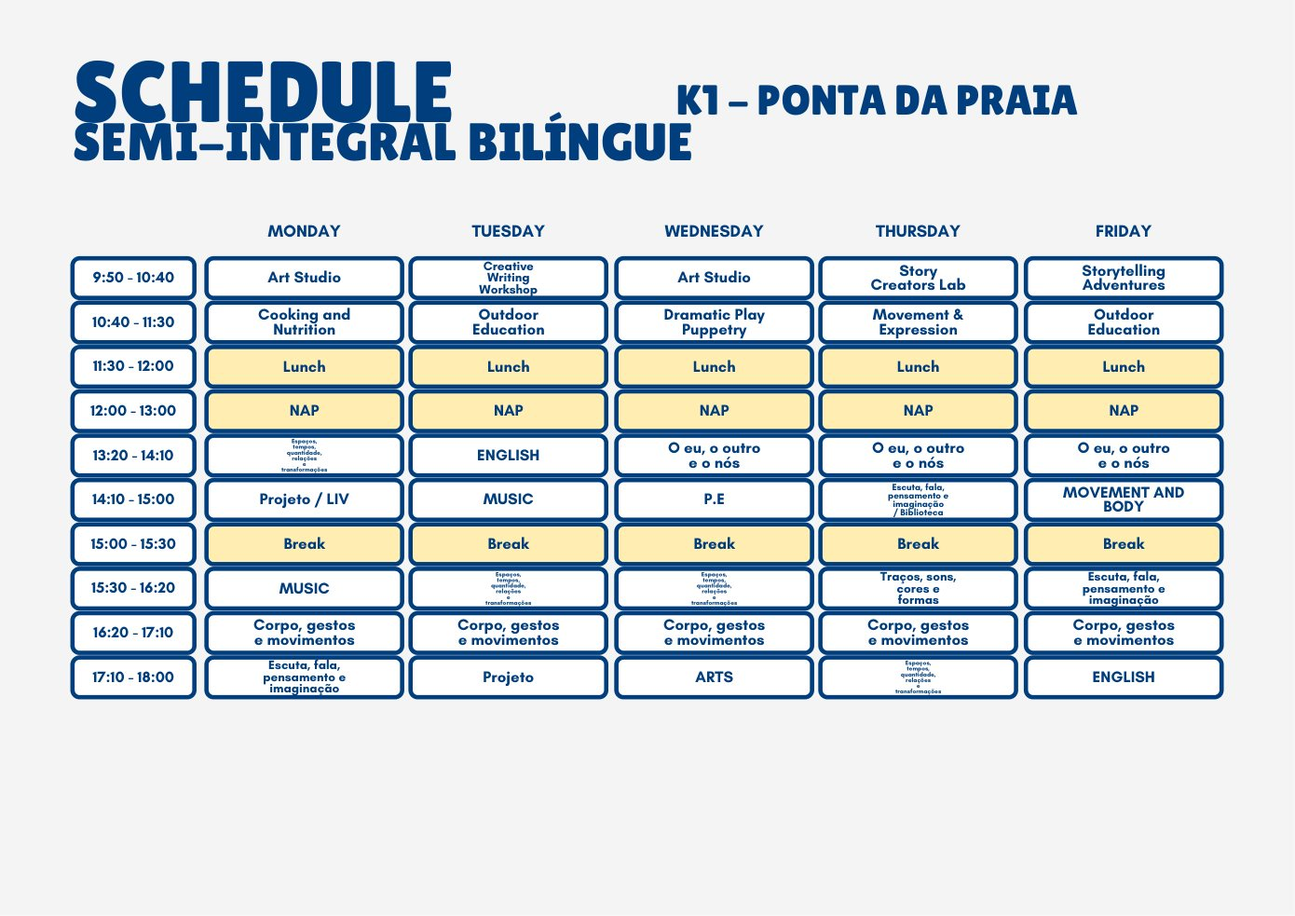
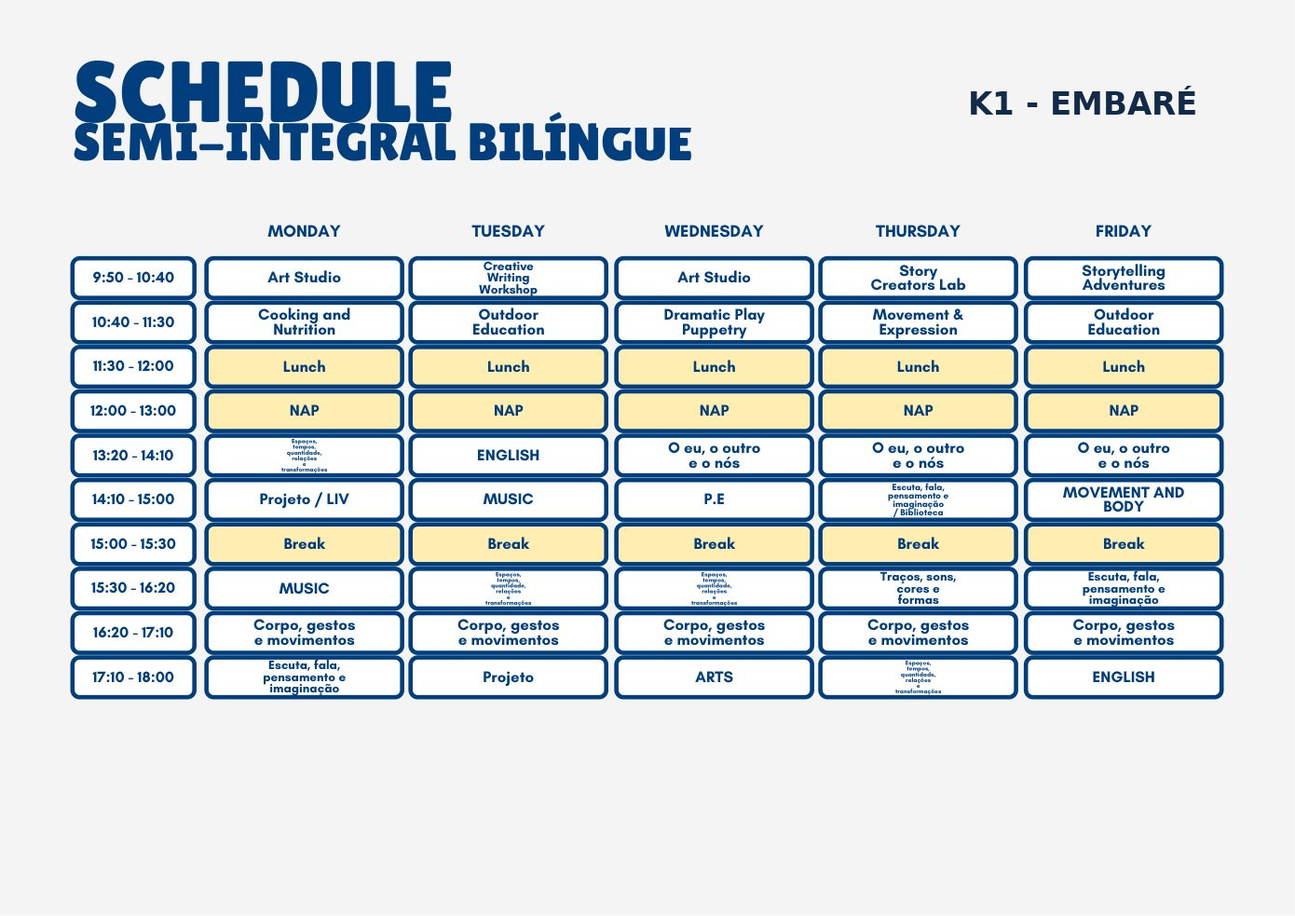
Corrige miniaturas Embaré com nome da escola e linha das 7h no Y6/Y7

Changed region(s): [[0.464, 0.0916, 0.9281, 0.1526]]

diff --git a/embare-grades.html b/embare-grades.html
@@ -2,4 +2,4 @@
 
 <html lang="pt-BR"><head><meta charset="utf-8"/><meta content="width=device-width, initial-scale=1" name="viewport"/><meta content="noindex,nofollow" name="robots"/><title>Grades Horárias Embaré · Portal</title><!-- versão 20260624-embare-grades-atualizadas-v2 --><link href="https://fonts.googleapis.com" rel="preconnect"/><link crossorigin="" href="https://fonts.gstatic.com" rel="preconnect"/><link href="https://fonts.googleapis.com/css2?family=Lexend:wght@300;400;500;600;700;800&amp;display=swap" rel="stylesheet"/><style>
 :root{--navy:#003366;--blue:#2ea3f2;--orange:#ff6900;--green:#0a5629;--ink:#26343b;--muted:#64717a;--line:#dfe9ef;--bg:#f4f7f8;--shadow:0 18px 50px rgba(0,51,102,.13)}*{box-sizing:border-box}html{scroll-behavior:smooth}body{margin:0;font-family:Lexend,Arial,sans-serif;background:var(--bg);color:var(--ink);line-height:1.55}a{color:var(--blue)}.wrap{max-width:1180px;margin:auto;padding:0 22px}.top{position:sticky;top:0;z-index:20;background:rgba(255,255,255,.92);backdrop-filter:blur(14px);border-bottom:1px solid var(--line)}.top .wrap{display:flex;justify-content:space-between;gap:12px;align-items:center;padding-top:11px;padding-bottom:11px}.brand{font-weight:900;color:var(--navy)}.actions{display:flex;gap:8px;flex-wrap:wrap}.btn{text-decoration:none;border:1px solid var(--line);background:white;color:var(--navy);border-radius:999px;padding:9px 13px;font-weight:900}.btn.primary{background:var(--orange);border-color:var(--orange);color:#fff}.hero{background:radial-gradient(circle at 74% 9%,rgba(64,174,103,.28),transparent 28%),linear-gradient(135deg,var(--navy),var(--green));color:white;padding:38px 0 24px}.eyebrow{font-size:12px;letter-spacing:.12em;text-transform:uppercase;font-weight:900;opacity:.82}h1{font-size:clamp(30px,4vw,48px);line-height:1.04;margin:8px 0}.hero p{max-width:720px;color:#edf7ff;font-size:15px}main{padding:18px 0 54px}.panel{background:white;border:1px solid var(--line);border-radius:28px;padding:24px;box-shadow:var(--shadow);margin-bottom:24px}.panel h2{color:var(--navy);font-size:30px;margin:4px 0 6px}.panel p{color:var(--muted);margin:0}.indexGrid{display:grid;grid-template-columns:repeat(auto-fit,minmax(260px,1fr));gap:14px;margin-top:18px}.indexCard{position:relative;overflow:hidden;display:block;text-decoration:none;background:#fff;border:1px solid var(--line);border-radius:24px;padding:20px;min-height:178px;box-shadow:0 10px 28px rgba(0,51,102,.08);transition:.18s ease transform,.18s ease box-shadow,.18s ease border-color}.indexCard:after{content:'';position:absolute;right:-34px;top:-34px;width:104px;height:104px;border-radius:999px;background:linear-gradient(135deg,rgba(46,163,242,.12),rgba(64,174,103,.14))}.indexCard:hover{transform:translateY(-3px);box-shadow:0 16px 34px rgba(0,51,102,.13);border-color:color-mix(in srgb,var(--accent) 40%,var(--line))}.cardEmoji{position:relative;z-index:1;width:52px;height:52px;display:flex;align-items:center;justify-content:center;border-radius:17px;background:linear-gradient(135deg,#eef8f1,#eaf4ff);font-size:28px;margin-bottom:14px;box-shadow:0 8px 20px rgba(0,51,102,.08)}.indexCard strong{position:relative;z-index:1;display:block;color:var(--navy);font-size:20px;margin-bottom:8px}.indexCard span:not(.cardEmoji){position:relative;z-index:1;display:block;color:var(--muted);font-size:14px}.indexCard em{position:relative;z-index:1;display:inline-flex;margin-top:12px;color:var(--accent);font-style:normal;font-weight:900;font-size:12px;text-transform:uppercase;letter-spacing:.06em}.segment{margin:34px 0 48px;scroll-margin-top:86px}.segmentHead{display:flex;gap:16px;align-items:flex-start;background:#fff;border:1px solid var(--line);border-radius:28px;padding:22px;box-shadow:var(--shadow);margin-bottom:18px}.segIcon{width:56px;height:56px;display:flex;align-items:center;justify-content:center;border-radius:18px;background:linear-gradient(135deg,#eef8f1,#eaf4ff);font-size:30px;box-shadow:0 8px 20px rgba(0,51,102,.08)}.segmentHead h2{margin:4px 0;color:var(--navy);font-size:28px}.segmentHead p{margin:0;color:var(--muted)}.segmentHead a{margin-left:auto;white-space:nowrap;text-decoration:none;font-weight:900;border:1px solid var(--line);border-radius:999px;padding:8px 12px;background:#f8fbff}.gradeSubhead{margin:18px 0 12px;color:var(--navy);font-size:20px;line-height:1.25}.gradeGrid{display:grid;grid-template-columns:repeat(auto-fit,minmax(330px,1fr));gap:18px}.gradeCard{background:#fff;border:1px solid var(--line);border-radius:24px;overflow:hidden;box-shadow:0 10px 28px rgba(0,51,102,.08);border-top:7px solid var(--accent)}.gradeInfo{padding:17px 18px 14px}.gradeInfo span{color:var(--accent);font-weight:900;text-transform:uppercase;font-size:12px;letter-spacing:.08em}.gradeInfo h3{margin:6px 0 4px;color:var(--navy);font-size:16px;line-height:1.25}.gradeInfo p{margin:0;color:var(--muted);font-size:13px}.gradeImageLink{display:block;background:#eef3f6;padding:10px;border-top:1px solid var(--line)}.gradeImageLink img{display:block;width:100%;height:auto;border-radius:14px;border:1px solid #d8e2e8;background:white}@media(max-width:760px){.top .wrap,.segmentHead{display:block}.actions{margin-top:8px}.hero{padding:34px 0 24px}.panel,.segmentHead{border-radius:22px;padding:18px}.segmentHead a{display:inline-flex;margin:14px 0 0}.gradeGrid{grid-template-columns:1fr}.indexGrid{grid-template-columns:1fr}}
-.gradeInfo{display:none!important}.gradeCard{border-top:0!important;padding:0!important;background:#fff!important}.gradeImageLink{border-top:0!important;padding:8px!important;background:#fff!important}.gradeImageLink img{border-radius:18px!important}.segment{margin:26px 0 34px!important}.segmentHead{margin-bottom:12px!important;padding:18px!important}.panel{margin-bottom:18px!important}.indexCard{min-height:132px!important;padding:16px!important}.cardEmoji{width:44px!important;height:44px!important;margin-bottom:10px!important}.indexCard strong{font-size:18px!important}.indexCard span:not(.cardEmoji){font-size:13px!important}.top{display:none!important}.hero{display:none!important}.topicBar{top:0!important}.segment{scroll-margin-top:24px!important}.contentCard{scroll-margin-top:24px!important}main{padding-top:18px!important}</style></head><body><header class="top"><div class="wrap"><div class="brand">GSP · Projeto Bilíngue 2027</div><div class="actions"><a class="btn" href="index.html#embare">Voltar ao portal</a></div></div></header><section class="hero"><div class="wrap"><span class="eyebrow">Portal Embaré</span><h1>Grades horárias</h1><p>Consulte por segmento. Clique para ampliar.</p></div></section><main class="wrap"><section class="panel" id="indice"><span class="eyebrow">Índice rápido</span><h2>Segmentos</h2><p>Escolha uma seção para consultar.</p><div class="indexGrid"><a class="indexCard" href="#infantil" style="--accent:#003366"><span class="cardEmoji">🌱</span><strong>Educação Infantil</strong><span>12 página(s)</span><em>Ver</em></a><a class="indexCard" href="#fund1" style="--accent:#2ea3f2"><span class="cardEmoji">📘</span><strong>Fundamental I — Year 1 ao Year 5 / 1º ao 5º ano</strong><span>3 página(s)</span><em>Ver</em></a><a class="indexCard" href="#fund2" style="--accent:#0a5629"><span class="cardEmoji">🧭</span><strong>Fundamental II — Year 6 ao Year 9 / 6º ao 9º ano</strong><span>6 página(s)</span><em>Ver</em></a></div></section><section class="segment" id="infantil"><div class="segmentHead"><div class="segIcon">🌱</div><div><span class="eyebrow">Embaré</span><h2>Educação Infantil</h2><p>Miniaturas das páginas da grade da Educação Infantil.</p></div><a href="#indice">Voltar ao índice</a></div><div class="gradeGrid"><article class="gradeCard" style="--accent:#003366"><div class="gradeInfo"><span>Página 1 · Grades horárias</span><h3>INTEGRAL BILÍNGUE</h3><p>Clique para ampliar.</p></div><a class="gradeImageLink" href="assets/embare-grades/embare-grade-p01.jpg?v=20260624-embare-grades-atualizadas-v2" rel="noopener" target="_blank"><img alt="Grade Embaré — INTEGRAL BILÍNGUE" loading="eager" src="assets/embare-grades/embare-grade-p01.jpg?v=20260827-ponta-replica-infantil-f1-f2-p01"/></a></article><article class="gradeCard" style="--accent:#2ea3f2"><div class="gradeInfo"><span>Página 2 · Grades horárias</span><h3>SEMI-INTEGRAL BILÍNGUE</h3><p>Clique para ampliar.</p></div><a class="gradeImageLink" href="assets/embare-grades/embare-grade-p02.jpg?v=20260624-embare-grades-atualizadas-v2" rel="noopener" target="_blank"><img alt="Grade Embaré — SEMI-INTEGRAL BILÍNGUE" loading="eager" src="assets/embare-grades/embare-grade-p02.jpg?v=20260827-ponta-replica-infantil-f1-f2-p02"/></a></article><article class="gradeCard" style="--accent:#0a5629"><div class="gradeInfo"><span>Página 3 · Grades horárias</span><h3>REGULAR BILÍNGUE</h3><p>Clique para ampliar.</p></div><a class="gradeImageLink" href="assets/embare-grades/embare-grade-p03.jpg?v=20260624-embare-grades-atualizadas-v2" rel="noopener" target="_blank"><img alt="Grade Embaré — REGULAR BILÍNGUE" loading="eager" src="assets/embare-grades/embare-grade-p03.jpg?v=20260827-ponta-replica-infantil-f1-f2-p03"/></a></article><article class="gradeCard" style="--accent:#40ae67"><div class="gradeInfo"><span>Página 4 · Grades horárias</span><h3>INTEGRAL BILÍNGUE</h3><p>Clique para ampliar.</p></div><a class="gradeImageLink" href="assets/embare-grades/embare-grade-p04.jpg?v=20260624-embare-grades-atualizadas-v2" rel="noopener" target="_blank"><img alt="Grade Embaré — INTEGRAL BILÍNGUE" loading="eager" src="assets/embare-grades/embare-grade-p04.jpg?v=20260827-ponta-replica-infantil-f1-f2-p04"/></a></article><article class="gradeCard" style="--accent:#ff6900"><div class="gradeInfo"><span>Página 5 · Grades horárias</span><h3>SEMI-INTEGRAL BILÍNGUE</h3><p>Clique para ampliar.</p></div><a class="gradeImageLink" href="assets/embare-grades/embare-grade-p05.jpg?v=20260624-embare-grades-atualizadas-v2" rel="noopener" target="_blank"><img alt="Grade Embaré — SEMI-INTEGRAL BILÍNGUE" loading="eager" src="assets/embare-grades/embare-grade-p05.jpg?v=20260827-ponta-replica-infantil-f1-f2-p05"/></a></article><article class="gradeCard" style="--accent:#8a4fff"><div class="gradeInfo"><span>Página 6 · Grades horárias</span><h3>REGULAR BILÍNGUE</h3><p>Clique para ampliar.</p></div><a class="gradeImageLink" href="assets/embare-grades/embare-grade-p06.jpg?v=20260624-embare-grades-atualizadas-v2" rel="noopener" target="_blank"><img alt="Grade Embaré — REGULAR BILÍNGUE" loading="eager" src="assets/embare-grades/embare-grade-p06.jpg?v=20260827-ponta-replica-infantil-f1-f2-p06"/></a></article><article class="gradeCard" style="--accent:#cc3d6b"><div class="gradeInfo"><span>Página 7 · Grades horárias</span><h3>INTEGRAL BILÍNGUE</h3><p>Clique para ampliar.</p></div><a class="gradeImageLink" href="assets/embare-grades/embare-grade-p07.jpg?v=20260624-embare-grades-atualizadas-v2" rel="noopener" target="_blank"><img alt="Grade Embaré — INTEGRAL BILÍNGUE" loading="eager" src="assets/embare-grades/embare-grade-p07.jpg?v=20260827-ponta-replica-infantil-f1-f2-p07"/></a></article><article class="gradeCard" style="--accent:#1b7f83"><div class="gradeInfo"><span>Página 8 · Grades horárias</span><h3>SEMI-INTEGRAL BILÍNGUE</h3><p>Clique para ampliar.</p></div><a class="gradeImageLink" href="assets/embare-grades/embare-grade-p08.jpg?v=20260624-embare-grades-atualizadas-v2" rel="noopener" target="_blank"><img alt="Grade Embaré — SEMI-INTEGRAL BILÍNGUE" loading="eager" src="assets/embare-grades/embare-grade-p08.jpg?v=20260827-ponta-replica-infantil-f1-f2-p08"/></a></article><article class="gradeCard" style="--accent:#b36b00"><div class="gradeInfo"><span>Página 9 · Grades horárias</span><h3>REGULAR BILÍNGUE</h3><p>Clique para ampliar.</p></div><a class="gradeImageLink" href="assets/embare-grades/embare-grade-p09.jpg?v=20260624-embare-grades-atualizadas-v2" rel="noopener" target="_blank"><img alt="Grade Embaré — REGULAR BILÍNGUE" loading="eager" src="assets/embare-grades/embare-grade-p09.jpg?v=20260827-ponta-replica-infantil-f1-f2-p09"/></a></article><article class="gradeCard" style="--accent:#003366"><div class="gradeInfo"><span>Página 10 · Grades horárias</span><h3>INTEGRAL BILÍNGUE</h3><p>Clique para ampliar.</p></div><a class="gradeImageLink" href="assets/embare-grades/embare-grade-p10.jpg?v=20260624-embare-grades-atualizadas-v2" rel="noopener" target="_blank"><img alt="Grade Embaré — INTEGRAL BILÍNGUE" loading="eager" src="assets/embare-grades/embare-grade-p10.jpg?v=20260827-ponta-replica-infantil-f1-f2-p10"/></a></article><article class="gradeCard" style="--accent:#2ea3f2"><div class="gradeInfo"><span>Página 11 · Grades horárias</span><h3>SEMI-INTEGRAL BILÍNGUE</h3><p>Clique para ampliar.</p></div><a class="gradeImageLink" href="assets/embare-grades/embare-grade-p11.jpg?v=20260624-embare-grades-atualizadas-v2" rel="noopener" target="_blank"><img alt="Grade Embaré — SEMI-INTEGRAL BILÍNGUE" loading="eager" src="assets/embare-grades/embare-grade-p11.jpg?v=20260827-ponta-replica-infantil-f1-f2-p11"/></a></article><article class="gradeCard" style="--accent:#0a5629"><div class="gradeInfo"><span>Página 12 · Grades horárias</span><h3>REGULAR BILÍNGUE</h3><p>Clique para ampliar.</p></div><a class="gradeImageLink" href="assets/embare-grades/embare-grade-p12.jpg?v=20260624-embare-grades-atualizadas-v2" rel="noopener" target="_blank"><img alt="Grade Embaré — REGULAR BILÍNGUE" loading="eager" src="assets/embare-grades/embare-grade-p12.jpg?v=20260827-ponta-replica-infantil-f1-f2-p12"/></a></article></div></section><section class="segment" id="fund1"><div class="segmentHead"><div class="segIcon">📘</div><div><span class="eyebrow">Embaré</span><h2>Fundamental I — Year 1 ao Year 5 / 1º ao 5º ano</h2><p>Miniaturas das páginas da grade do Fundamental I.</p></div><a href="#indice">Voltar ao índice</a></div><div class="gradeGrid"><article class="gradeCard" style="--accent:#2ea3f2"><div class="gradeInfo"><span>Página 13 · Grades horárias</span><h3>INTEGRAL BILÍNGUE</h3><p>Clique para ampliar.</p></div><a class="gradeImageLink" href="assets/embare-grades/embare-grade-p13.jpg?v=20260624-embare-grades-atualizadas-v2" rel="noopener" target="_blank"><img alt="Grade Embaré — Fundamental I — Year 1 ao Year 5 / 1º ao 5º ano — Página 13" loading="eager" src="assets/embare-grades/embare-grade-p13.jpg?v=20260827-ponta-replica-infantil-f1-f2-p13"/></a></article><article class="gradeCard" style="--accent:#0a5629"><div class="gradeInfo"><span>Página 14 · Grades horárias</span><h3>REGULAR BILÍNGUE</h3><p>Clique para ampliar.</p></div><a class="gradeImageLink" href="assets/embare-grades/embare-grade-p14.jpg?v=20260624-embare-grades-atualizadas-v2" rel="noopener" target="_blank"><img alt="Grade Embaré — Fundamental I — Year 1 ao Year 5 / 1º ao 5º ano — Página 14" loading="eager" src="assets/embare-grades/embare-grade-p14.jpg?v=20260827-ponta-replica-infantil-f1-f2-p14"/></a></article><article class="gradeCard" style="--accent:#40ae67"><div class="gradeInfo"><span>Página 15 · Grades horárias</span><h3>REGULAR</h3><p>Clique para ampliar.</p></div><a class="gradeImageLink" href="assets/embare-grades/embare-grade-p15.jpg?v=20260624-embare-grades-atualizadas-v2" rel="noopener" target="_blank"><img alt="Grade Embaré — Fundamental I — Year 1 ao Year 5 / 1º ao 5º ano — Página 15" loading="eager" src="assets/embare-grades/embare-grade-p15.jpg?v=20260827-ponta-replica-infantil-f1-f2-p15"/></a></article></div></section><section class="segment" id="fund2"><div class="segmentHead"><div class="segIcon">🧭</div><div><span class="eyebrow">Embaré</span><h2>Fundamental II — Year 6 ao Year 9 / 6º ao 9º ano</h2><p>Miniaturas das páginas da grade do Fundamental II, organizadas por faixa de anos.</p></div><a href="#indice">Voltar ao índice</a></div><h3 class="gradeSubhead">Year 6 e Year 7 / 6º e 7º ano</h3><div class="gradeGrid"><article class="gradeCard" style="--accent:#ff6900"><div class="gradeInfo"><span>Página 16 · Grades horárias</span><h3>INTEGRAL BILÍNGUE</h3><p>Clique para ampliar.</p></div><a class="gradeImageLink" href="assets/embare-grades/embare-grade-p16.jpg?v=20260724-embare-f2-v1" rel="noopener" target="_blank"><img alt="Grade Embaré — Fundamental II — Year 6 e Year 7 / 6º e 7º ano — Página 16" loading="eager" src="assets/embare-grades/embare-grade-p16.jpg?v=20260827-ponta-replica-infantil-f1-f2-p16"/></a></article><article class="gradeCard" style="--accent:#8a4fff"><div class="gradeInfo"><span>Página 17 · Grades horárias</span><h3>REGULAR BILÍNGUE</h3><p>Clique para ampliar.</p></div><a class="gradeImageLink" href="assets/embare-grades/embare-grade-p17.jpg?v=20260725-embare-f2-caixas-ultima-aula" rel="noopener" target="_blank"><img alt="Grade Embaré — Fundamental II — Year 6 e Year 7 / 6º e 7º ano — Página 17" loading="eager" src="assets/embare-grades/embare-grade-p17.jpg?v=20260827-ponta-replica-infantil-f1-f2-p17"/></a></article><article class="gradeCard" style="--accent:#cc3d6b"><div class="gradeInfo"><span>Página 18 · Grades horárias</span><h3>REGULAR</h3><p>Clique para ampliar.</p></div><a class="gradeImageLink" href="assets/embare-grades/embare-grade-p18.jpg?v=20260624-embare-grades-atualizadas-v2" rel="noopener" target="_blank"><img alt="Grade Embaré — Fundamental II — Year 6 e Year 7 / 6º e 7º ano — Página 18" loading="eager" src="assets/embare-grades/embare-grade-p18.jpg?v=20260827-ponta-replica-infantil-f1-f2-p18"/></a></article></div><h3 class="gradeSubhead">Year 8 e Year 9 / 8º e 9º ano</h3><div class="gradeGrid"><article class="gradeCard" style="--accent:#0a5629"><div class="gradeInfo"><span>Página 19 · Grades horárias</span><h3>HIGH SCHOOL PREP</h3><p>Clique para ampliar.</p></div><a class="gradeImageLink" href="assets/embare-grades/embare-grade-p19-high-school-prep-20260727.jpg?v=1" rel="noopener" target="_blank"><img alt="Grade Embaré — Fundamental II — Year 8 e Year 9 / 8º e 9º ano — Página 19" loading="eager" src="assets/embare-grades/embare-grade-p19-high-school-prep-20260727.jpg?v=20260827-ponta-replica-infantil-f1-f2-p19"/></a></article><article class="gradeCard" style="--accent:#1b7f83"><div class="gradeInfo"><span>Página 20 · Grades horárias</span><h3>REGULAR BILÍNGUE</h3><p>Clique para ampliar.</p></div><a class="gradeImageLink" href="assets/embare-grades/embare-grade-p20.jpg?v=20260725-embare-f2-caixas-ultima-aula" rel="noopener" target="_blank"><img alt="Grade Embaré — Fundamental II — Year 8 e Year 9 / 8º e 9º ano — Página 20" loading="eager" src="assets/embare-grades/embare-grade-p20.jpg?v=20260827-ponta-replica-infantil-f1-f2-p20"/></a></article><article class="gradeCard" style="--accent:#b36b00"><div class="gradeInfo"><span>Página 21 · Grades horárias</span><h3>REGULAR</h3><p>Clique para ampliar.</p></div><a class="gradeImageLink" href="assets/embare-grades/embare-grade-p21.jpg?v=20260624-embare-grades-atualizadas-v2" rel="noopener" target="_blank"><img alt="Grade Embaré — Fundamental II — Year 8 e Year 9 / 8º e 9º ano — Página 21" loading="eager" src="assets/embare-grades/embare-grade-p21.jpg?v=20260827-ponta-replica-infantil-f1-f2-p21"/></a></article></div></section></main></body></html>
+.gradeInfo{display:none!important}.gradeCard{border-top:0!important;padding:0!important;background:#fff!important}.gradeImageLink{border-top:0!important;padding:8px!important;background:#fff!important}.gradeImageLink img{border-radius:18px!important}.segment{margin:26px 0 34px!important}.segmentHead{margin-bottom:12px!important;padding:18px!important}.panel{margin-bottom:18px!important}.indexCard{min-height:132px!important;padding:16px!important}.cardEmoji{width:44px!important;height:44px!important;margin-bottom:10px!important}.indexCard strong{font-size:18px!important}.indexCard span:not(.cardEmoji){font-size:13px!important}.top{display:none!important}.hero{display:none!important}.topicBar{top:0!important}.segment{scroll-margin-top:24px!important}.contentCard{scroll-margin-top:24px!important}main{padding-top:18px!important}</style></head><body><header class="top"><div class="wrap"><div class="brand">GSP · Projeto Bilíngue 2027</div><div class="actions"><a class="btn" href="index.html#embare">Voltar ao portal</a></div></div></header><section class="hero"><div class="wrap"><span class="eyebrow">Portal Embaré</span><h1>Grades horárias</h1><p>Consulte por segmento. Clique para ampliar.</p></div></section><main class="wrap"><section class="panel" id="indice"><span class="eyebrow">Índice rápido</span><h2>Segmentos</h2><p>Escolha uma seção para consultar.</p><div class="indexGrid"><a class="indexCard" href="#infantil" style="--accent:#003366"><span class="cardEmoji">🌱</span><strong>Educação Infantil</strong><span>12 página(s)</span><em>Ver</em></a><a class="indexCard" href="#fund1" style="--accent:#2ea3f2"><span class="cardEmoji">📘</span><strong>Fundamental I — Year 1 ao Year 5 / 1º ao 5º ano</strong><span>3 página(s)</span><em>Ver</em></a><a class="indexCard" href="#fund2" style="--accent:#0a5629"><span class="cardEmoji">🧭</span><strong>Fundamental II — Year 6 ao Year 9 / 6º ao 9º ano</strong><span>6 página(s)</span><em>Ver</em></a></div></section><section class="segment" id="infantil"><div class="segmentHead"><div class="segIcon">🌱</div><div><span class="eyebrow">Embaré</span><h2>Educação Infantil</h2><p>Miniaturas das páginas da grade da Educação Infantil.</p></div><a href="#indice">Voltar ao índice</a></div><div class="gradeGrid"><article class="gradeCard" style="--accent:#003366"><div class="gradeInfo"><span>Página 1 · Grades horárias</span><h3>INTEGRAL BILÍNGUE</h3><p>Clique para ampliar.</p></div><a class="gradeImageLink" href="assets/embare-grades/embare-grade-p01.jpg?v=20260914-embare-title-7h" rel="noopener" target="_blank"><img alt="Grade Embaré — INTEGRAL BILÍNGUE" loading="eager" src="assets/embare-grades/embare-grade-p01.jpg?v=20260914-embare-title-7h"/></a></article><article class="gradeCard" style="--accent:#2ea3f2"><div class="gradeInfo"><span>Página 2 · Grades horárias</span><h3>SEMI-INTEGRAL BILÍNGUE</h3><p>Clique para ampliar.</p></div><a class="gradeImageLink" href="assets/embare-grades/embare-grade-p02.jpg?v=20260914-embare-title-7h" rel="noopener" target="_blank"><img alt="Grade Embaré — SEMI-INTEGRAL BILÍNGUE" loading="eager" src="assets/embare-grades/embare-grade-p02.jpg?v=20260914-embare-title-7h"/></a></article><article class="gradeCard" style="--accent:#0a5629"><div class="gradeInfo"><span>Página 3 · Grades horárias</span><h3>REGULAR BILÍNGUE</h3><p>Clique para ampliar.</p></div><a class="gradeImageLink" href="assets/embare-grades/embare-grade-p03.jpg?v=20260914-embare-title-7h" rel="noopener" target="_blank"><img alt="Grade Embaré — REGULAR BILÍNGUE" loading="eager" src="assets/embare-grades/embare-grade-p03.jpg?v=20260914-embare-title-7h"/></a></article><article class="gradeCard" style="--accent:#40ae67"><div class="gradeInfo"><span>Página 4 · Grades horárias</span><h3>INTEGRAL BILÍNGUE</h3><p>Clique para ampliar.</p></div><a class="gradeImageLink" href="assets/embare-grades/embare-grade-p04.jpg?v=20260914-embare-title-7h" rel="noopener" target="_blank"><img alt="Grade Embaré — INTEGRAL BILÍNGUE" loading="eager" src="assets/embare-grades/embare-grade-p04.jpg?v=20260914-embare-title-7h"/></a></article><article class="gradeCard" style="--accent:#ff6900"><div class="gradeInfo"><span>Página 5 · Grades horárias</span><h3>SEMI-INTEGRAL BILÍNGUE</h3><p>Clique para ampliar.</p></div><a class="gradeImageLink" href="assets/embare-grades/embare-grade-p05.jpg?v=20260914-embare-title-7h" rel="noopener" target="_blank"><img alt="Grade Embaré — SEMI-INTEGRAL BILÍNGUE" loading="eager" src="assets/embare-grades/embare-grade-p05.jpg?v=20260914-embare-title-7h"/></a></article><article class="gradeCard" style="--accent:#8a4fff"><div class="gradeInfo"><span>Página 6 · Grades horárias</span><h3>REGULAR BILÍNGUE</h3><p>Clique para ampliar.</p></div><a class="gradeImageLink" href="assets/embare-grades/embare-grade-p06.jpg?v=20260914-embare-title-7h" rel="noopener" target="_blank"><img alt="Grade Embaré — REGULAR BILÍNGUE" loading="eager" src="assets/embare-grades/embare-grade-p06.jpg?v=20260914-embare-title-7h"/></a></article><article class="gradeCard" style="--accent:#cc3d6b"><div class="gradeInfo"><span>Página 7 · Grades horárias</span><h3>INTEGRAL BILÍNGUE</h3><p>Clique para ampliar.</p></div><a class="gradeImageLink" href="assets/embare-grades/embare-grade-p07.jpg?v=20260914-embare-title-7h" rel="noopener" target="_blank"><img alt="Grade Embaré — INTEGRAL BILÍNGUE" loading="eager" src="assets/embare-grades/embare-grade-p07.jpg?v=20260914-embare-title-7h"/></a></article><article class="gradeCard" style="--accent:#1b7f83"><div class="gradeInfo"><span>Página 8 · Grades horárias</span><h3>SEMI-INTEGRAL BILÍNGUE</h3><p>Clique para ampliar.</p></div><a class="gradeImageLink" href="assets/embare-grades/embare-grade-p08.jpg?v=20260914-embare-title-7h" rel="noopener" target="_blank"><img alt="Grade Embaré — SEMI-INTEGRAL BILÍNGUE" loading="eager" src="assets/embare-grades/embare-grade-p08.jpg?v=20260914-embare-title-7h"/></a></article><article class="gradeCard" style="--accent:#b36b00"><div class="gradeInfo"><span>Página 9 · Grades horárias</span><h3>REGULAR BILÍNGUE</h3><p>Clique para ampliar.</p></div><a class="gradeImageLink" href="assets/embare-grades/embare-grade-p09.jpg?v=20260914-embare-title-7h" rel="noopener" target="_blank"><img alt="Grade Embaré — REGULAR BILÍNGUE" loading="eager" src="assets/embare-grades/embare-grade-p09.jpg?v=20260914-embare-title-7h"/></a></article><article class="gradeCard" style="--accent:#003366"><div class="gradeInfo"><span>Página 10 · Grades horárias</span><h3>INTEGRAL BILÍNGUE</h3><p>Clique para ampliar.</p></div><a class="gradeImageLink" href="assets/embare-grades/embare-grade-p10.jpg?v=20260914-embare-title-7h" rel="noopener" target="_blank"><img alt="Grade Embaré — INTEGRAL BILÍNGUE" loading="eager" src="assets/embare-grades/embare-grade-p10.jpg?v=20260914-embare-title-7h"/></a></article><article class="gradeCard" style="--accent:#2ea3f2"><div class="gradeInfo"><span>Página 11 · Grades horárias</span><h3>SEMI-INTEGRAL BILÍNGUE</h3><p>Clique para ampliar.</p></div><a class="gradeImageLink" href="assets/embare-grades/embare-grade-p11.jpg?v=20260914-embare-title-7h" rel="noopener" target="_blank"><img alt="Grade Embaré — SEMI-INTEGRAL BILÍNGUE" loading="eager" src="assets/embare-grades/embare-grade-p11.jpg?v=20260914-embare-title-7h"/></a></article><article class="gradeCard" style="--accent:#0a5629"><div class="gradeInfo"><span>Página 12 · Grades horárias</span><h3>REGULAR BILÍNGUE</h3><p>Clique para ampliar.</p></div><a class="gradeImageLink" href="assets/embare-grades/embare-grade-p12.jpg?v=20260914-embare-title-7h" rel="noopener" target="_blank"><img alt="Grade Embaré — REGULAR BILÍNGUE" loading="eager" src="assets/embare-grades/embare-grade-p12.jpg?v=20260914-embare-title-7h"/></a></article></div></section><section class="segment" id="fund1"><div class="segmentHead"><div class="segIcon">📘</div><div><span class="eyebrow">Embaré</span><h2>Fundamental I — Year 1 ao Year 5 / 1º ao 5º ano</h2><p>Miniaturas das páginas da grade do Fundamental I.</p></div><a href="#indice">Voltar ao índice</a></div><div class="gradeGrid"><article class="gradeCard" style="--accent:#2ea3f2"><div class="gradeInfo"><span>Página 13 · Grades horárias</span><h3>INTEGRAL BILÍNGUE</h3><p>Clique para ampliar.</p></div><a class="gradeImageLink" href="assets/embare-grades/embare-grade-p13.jpg?v=20260914-embare-title-7h" rel="noopener" target="_blank"><img alt="Grade Embaré — Fundamental I — Year 1 ao Year 5 / 1º ao 5º ano — Página 13" loading="eager" src="assets/embare-grades/embare-grade-p13.jpg?v=20260914-embare-title-7h"/></a></article><article class="gradeCard" style="--accent:#0a5629"><div class="gradeInfo"><span>Página 14 · Grades horárias</span><h3>REGULAR BILÍNGUE</h3><p>Clique para ampliar.</p></div><a class="gradeImageLink" href="assets/embare-grades/embare-grade-p14.jpg?v=20260914-embare-title-7h" rel="noopener" target="_blank"><img alt="Grade Embaré — Fundamental I — Year 1 ao Year 5 / 1º ao 5º ano — Página 14" loading="eager" src="assets/embare-grades/embare-grade-p14.jpg?v=20260914-embare-title-7h"/></a></article><article class="gradeCard" style="--accent:#40ae67"><div class="gradeInfo"><span>Página 15 · Grades horárias</span><h3>REGULAR</h3><p>Clique para ampliar.</p></div><a class="gradeImageLink" href="assets/embare-grades/embare-grade-p15.jpg?v=20260914-embare-title-7h" rel="noopener" target="_blank"><img alt="Grade Embaré — Fundamental I — Year 1 ao Year 5 / 1º ao 5º ano — Página 15" loading="eager" src="assets/embare-grades/embare-grade-p15.jpg?v=20260914-embare-title-7h"/></a></article></div></section><section class="segment" id="fund2"><div class="segmentHead"><div class="segIcon">🧭</div><div><span class="eyebrow">Embaré</span><h2>Fundamental II — Year 6 ao Year 9 / 6º ao 9º ano</h2><p>Miniaturas das páginas da grade do Fundamental II, organizadas por faixa de anos.</p></div><a href="#indice">Voltar ao índice</a></div><h3 class="gradeSubhead">Year 6 e Year 7 / 6º e 7º ano</h3><div class="gradeGrid"><article class="gradeCard" style="--accent:#ff6900"><div class="gradeInfo"><span>Página 16 · Grades horárias</span><h3>INTEGRAL BILÍNGUE</h3><p>Clique para ampliar.</p></div><a class="gradeImageLink" href="assets/embare-grades/embare-grade-p16.jpg?v=20260914-embare-title-7h" rel="noopener" target="_blank"><img alt="Grade Embaré — Fundamental II — Year 6 e Year 7 / 6º e 7º ano — Página 16" loading="eager" src="assets/embare-grades/embare-grade-p16.jpg?v=20260914-embare-title-7h"/></a></article><article class="gradeCard" style="--accent:#8a4fff"><div class="gradeInfo"><span>Página 17 · Grades horárias</span><h3>REGULAR BILÍNGUE</h3><p>Clique para ampliar.</p></div><a class="gradeImageLink" href="assets/embare-grades/embare-grade-p17.jpg?v=20260914-embare-title-7h" rel="noopener" target="_blank"><img alt="Grade Embaré — Fundamental II — Year 6 e Year 7 / 6º e 7º ano — Página 17" loading="eager" src="assets/embare-grades/embare-grade-p17.jpg?v=20260914-embare-title-7h"/></a></article><article class="gradeCard" style="--accent:#cc3d6b"><div class="gradeInfo"><span>Página 18 · Grades horárias</span><h3>REGULAR</h3><p>Clique para ampliar.</p></div><a class="gradeImageLink" href="assets/embare-grades/embare-grade-p18.jpg?v=20260914-embare-title-7h" rel="noopener" target="_blank"><img alt="Grade Embaré — Fundamental II — Year 6 e Year 7 / 6º e 7º ano — Página 18" loading="eager" src="assets/embare-grades/embare-grade-p18.jpg?v=20260914-embare-title-7h"/></a></article></div><h3 class="gradeSubhead">Year 8 e Year 9 / 8º e 9º ano</h3><div class="gradeGrid"><article class="gradeCard" style="--accent:#0a5629"><div class="gradeInfo"><span>Página 19 · Grades horárias</span><h3>HIGH SCHOOL PREP</h3><p>Clique para ampliar.</p></div><a class="gradeImageLink" href="assets/embare-grades/embare-grade-p19-high-school-prep-20260727.jpg?v=20260914-embare-title-7h" rel="noopener" target="_blank"><img alt="Grade Embaré — Fundamental II — Year 8 e Year 9 / 8º e 9º ano — Página 19" loading="eager" src="assets/embare-grades/embare-grade-p19-high-school-prep-20260727.jpg?v=20260914-embare-title-7h"/></a></article><article class="gradeCard" style="--accent:#1b7f83"><div class="gradeInfo"><span>Página 20 · Grades horárias</span><h3>REGULAR BILÍNGUE</h3><p>Clique para ampliar.</p></div><a class="gradeImageLink" href="assets/embare-grades/embare-grade-p20.jpg?v=20260914-embare-title-7h" rel="noopener" target="_blank"><img alt="Grade Embaré — Fundamental II — Year 8 e Year 9 / 8º e 9º ano — Página 20" loading="eager" src="assets/embare-grades/embare-grade-p20.jpg?v=20260914-embare-title-7h"/></a></article><article class="gradeCard" style="--accent:#b36b00"><div class="gradeInfo"><span>Página 21 · Grades horárias</span><h3>REGULAR</h3><p>Clique para ampliar.</p></div><a class="gradeImageLink" href="assets/embare-grades/embare-grade-p21.jpg?v=20260914-embare-title-7h" rel="noopener" target="_blank"><img alt="Grade Embaré — Fundamental II — Year 8 e Year 9 / 8º e 9º ano — Página 21" loading="eager" src="assets/embare-grades/embare-grade-p21.jpg?v=20260914-embare-title-7h"/></a></article></div></section></main></body></html>
